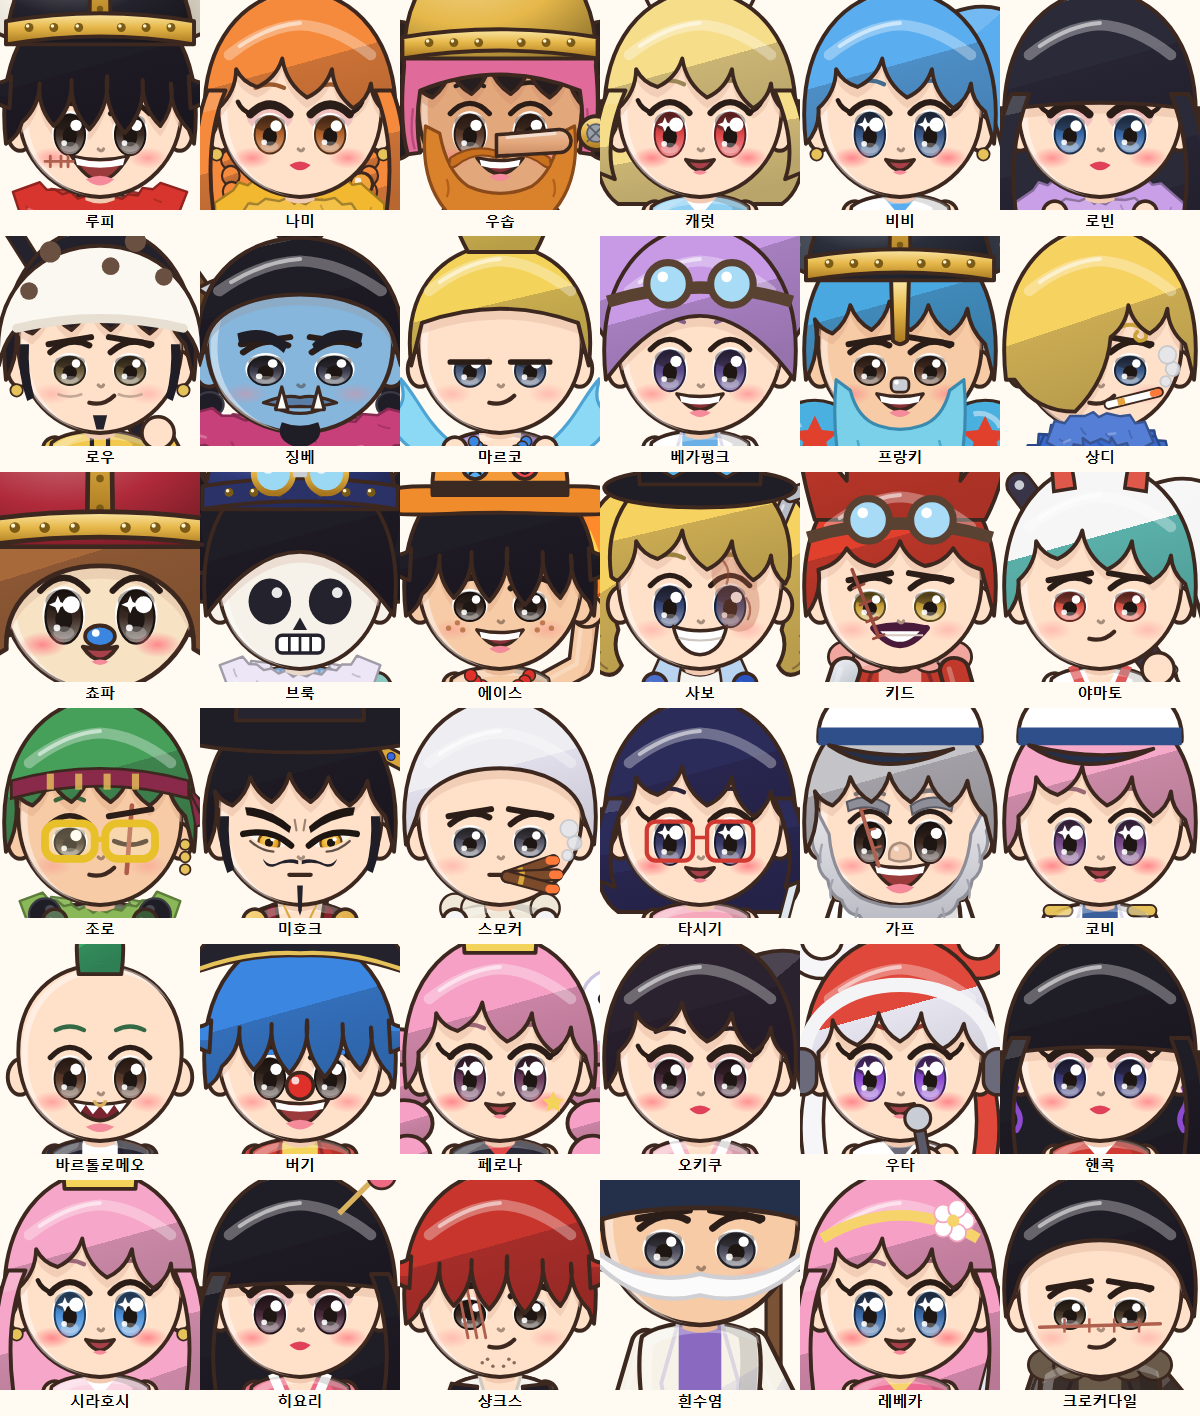
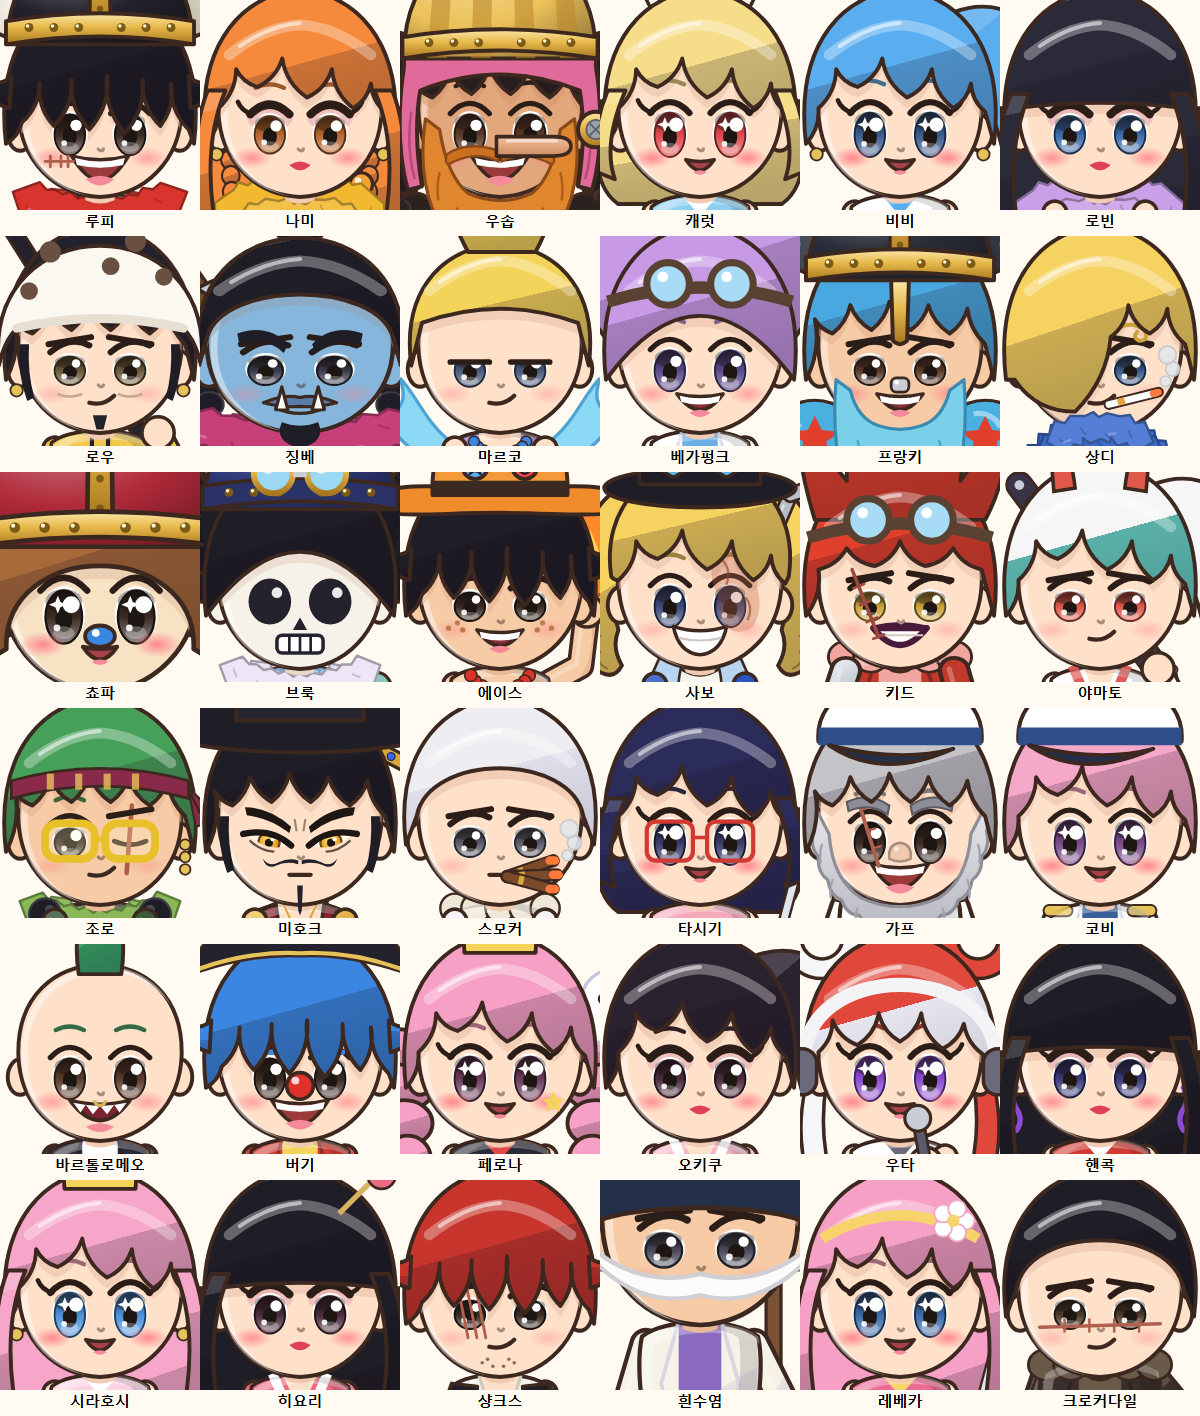
원피스직원 v3: 우솝 설정화에 맞춰 전체 — 턱선까지 분홍 두건 · 옆 헤드폰 · 넓은 금 줄무늬 투구 · 투구 옆에서 가늘고 길게 솟은 금 뿔 · 두건 뒤로 부푼 아프로 · 가슴까지 긴 주황 수염 · 크게 웃는 입 · B 코 · 회색 가방끈 · 징 박힌 손목 밴드 · 오피스 그림 다시 생성

Changed region(s): [[0.3083, 0.0621, 0.5242, 0.1554], [0.3392, 0.0, 0.4317, 0.0311]]

diff --git a/jugansa/ai-office/ai-jugansa/design/skins/원피스직원_v3/svg_chars.py b/jugansa/ai-office/ai-jugansa/design/skins/원피스직원_v3/svg_chars.py
@@ -645,6 +645,9 @@ def body(lk, team, pose=None):
             out_ += band(1, 0.82, "#8a5a30", 4); x, y, dx, dy = at(1, 0.82)
             out_ += f'<circle cx="{x - dy * 9:.1f}" cy="{y + dx * 9:.1f}" r="4.2" fill="#cfeefb" stroke="{INK}" stroke-width="1.2"/><path d="M {x - dy * 9 - 2:.1f},{y + dx * 9:.1f} L {x - dy * 9 + 2:.1f},{y + dx * 9:.1f}" stroke="#e0484a" stroke-width="1.2"/>'
         if "wrist_cuffs" in ex: out_ += band(len(pts) - 2, 0.84, "#8a93a3", 5)
+        if lk.get("stud_cuffs"):
+            out_ += band(len(pts) - 2, 0.8, "#1f1d26", 6); x, y, dx, dy = at(len(pts) - 2, 0.8)
+            out_ += "".join(f'<circle cx="{x - dy * d:.1f}" cy="{y + dx * d:.1f}" r="1.3" fill="#c9ced6"/>' for d in (-5, 0, 5))
         if "armband" in ex and side == "R":
             out_ += band(0, 0.62, "#1f1d26", 7); x, y, _, _ = at(0, 0.62)
             out_ += f'<rect x="{x - 3.5:.1f}" y="{y - 4:.1f}" width="7" height="8" rx="1" fill="none" stroke="#e6b84a" stroke-width="1.8"/>'
@@ -854,6 +857,7 @@ def elbaf_torso(lk):
     if lk.get("kilt"): s += _kilt(lk["kilt"])
     if lk.get("strap"): s += _strap(lk["strap"], 9 if lk.get("strap_wide") else 6)
     if lk.get("belt"): s += _belt(lk["belt"])
+    if lk.get("bag_strap"): s += '<path d="M -26,48 L 30,112" stroke="#3d2820" stroke-width="7" stroke-linecap="round"/><path d="M -26,48 L 30,112" stroke="#9aa0aa" stroke-width="4.4" stroke-linecap="round"/>'
     if lk.get("pouch"): s += f'<path d="M 20,104 L 36,116" stroke="#8a8f9a" stroke-width="2.4"/><ellipse cx="38" cy="126" rx="11" ry="12" fill="{lk["pouch"]}" {S}/><path d="M 30,120 Q 38,116 46,120" stroke="#8a2a1a" stroke-width="1.6" fill="none"/>'
     if lk.get("collar"):
         c = lk["collar"]; s += _collar(c, spread=lk.get("collar_w", 38), r=lk.get("collar_r", 7.5))
@@ -933,11 +937,11 @@ def long_nose(sk):
 
 def elbaf_face(lk):
     s, b = "", lk.get("beard")
-    if b == "usopp":
-        s += ('<path d="M -42,4 Q -46,40 -24,58 Q -12,68 0,70 Q 12,68 24,58 Q 46,40 42,4 L 34,8 Q 30,30 18,38 Q 0,46 -18,38 Q -30,30 -34,8 Z" fill="#d9822b" stroke="#8a4a1a" stroke-width="1.8" stroke-linejoin="round"/>'
-              '<path d="M -2,22 Q -14,18 -24,26 Q -30,30 -28,22 Q -16,14 -2,18 Z M 2,22 Q 14,18 24,26 Q 30,30 28,22 Q 16,14 2,18 Z" fill="#c9701f" stroke="#8a4a1a" stroke-width="1.2"/>'
-              + "".join(f'<path d="M {x},{y} q 2,6 0,10" stroke="#b0601a" stroke-width="1.3" fill="none"/>' for x, y in ((-30, 34), (-16, 52), (0, 56), (16, 52), (30, 34))))
-    if "long_nose" in lk["ex"]: s += long_nose_v(lk["skin"], lk.get("nose_style", "A"))        # 수염보다 앞에
+    if b == "usopp":       # 설정화 기준: 귀밑에서 가슴까지 내려오는 풍성한 주황 수염 · 두툼한 콧수염 · 입은 크게 보임
+        s += ('<path d="M -42,0 Q -48,40 -30,66 Q -16,84 0,92 Q 16,84 30,66 Q 48,40 42,0 L 34,6 Q 30,32 18,42 Q 0,50 -18,42 Q -30,32 -34,6 Z" fill="#e0862e" stroke="#8a4a1a" stroke-width="1.8" stroke-linejoin="round"/>'
+              '<path d="M -1,24 Q -12,18 -26,24 Q -32,28 -30,20 Q -18,12 -1,18 Z M 1,24 Q 12,18 26,24 Q 32,28 30,20 Q 18,12 1,18 Z" fill="#cc7020" stroke="#8a4a1a" stroke-width="1.3"/>'
+              + "".join(f'<path d="M {x},{y} q {d},8 {d * 0.4},16" stroke="#b0601a" stroke-width="1.4" fill="none"/>' for x, y, d in ((-34, 30, -2), (-24, 50, -2), (-10, 62, -1), (10, 62, 1), (24, 50, 2), (34, 30, 2), (0, 68, 0))))
+    if "long_nose" in lk["ex"]: s += long_nose_v(lk["skin"], lk.get("nose_style", "B"))        # 수염보다 앞에
     if b == "franky":
         s += ('<path d="M -36,14 Q -40,60 -24,92 Q -14,104 -6,96 Q 0,108 6,96 Q 14,104 24,92 Q 40,60 36,14 L 28,20 Q 24,36 12,40 Q 0,44 -12,40 Q -24,36 -28,20 Z" fill="#7ad0e8" stroke="#3a8ab0" stroke-width="1.8" stroke-linejoin="round"/>'
               + "".join(f'<path d="M {x},{y} q 3,10 -1,22" stroke="#4aa8c8" stroke-width="1.4" fill="none"/>' for x, y in ((-24, 48), (-10, 56), (8, 56), (22, 48))))
@@ -952,13 +956,13 @@ def elbaf_top(lk):        # 이마 띠 (조로)
             + "".join(f'<rect x="{x}" y="-30" width="4" height="9" fill="#e6c25a" opacity=".8"/>' for x in (-30, -14, 2, 18)) + f'<path d="M 50,-22 L 62,-10 L 56,-8 Z M 50,-20 L 60,-2 L 54,0 Z" fill="{c}" stroke="{INK}" stroke-width="1.2"/>')
 
 def elbaf_hair_back(lk):
-    if lk.get("side_afro"):       # 우솝: 투구 아래 양옆으로 풍성하게 삐져나온 곱슬머리 (위로는 안 보임)
+    if lk.get("side_afro"):       # 설정화 기준: 두건 뒤로 크게 부푼 검은 아프로 (옆 · 뒤 · 어깨 높이까지)
         H = f'fill="url(#hair§)" stroke="#3d2820" stroke-width="2" stroke-linejoin="round"'
         g = ""
         for sx in (-1, 1):
-            for x, y, r in ((58, -40, 15), (70, -26, 17), (78, -6, 17), (74, 12, 15), (62, -8, 17), (60, 10, 13)):
+            for x, y, r in ((60, -34, 15), (72, -16, 17), (78, 6, 18), (74, 28, 17), (62, 44, 15), (48, 54, 12), (62, 0, 20), (56, 24, 18)):
                 g += f'<circle cx="{sx * x}" cy="{y}" r="{r}" {H}/>'
-            g += "".join(f'<path d="M {sx * x},{y} a 5,5 0 1 1 {sx * 6},3" stroke="#4a3a34" stroke-width="1.4" fill="none" opacity=".8"/>' for x, y in ((70, -24), (78, -2), (72, 14)))
+            g += "".join(f'<path d="M {sx * x},{y} a 5,5 0 1 1 {sx * 6},3" stroke="#4a3a34" stroke-width="1.4" fill="none" opacity=".75"/>' for x, y in ((68, -20), (72, 6), (66, 30), (54, 46)))
         return g
     if lk.get("nami_braids"):      # 양옆으로 늘어뜨린 가는 땋은 머리
         return "".join(f'<ellipse cx="{sx * (40 - k * 0.5):.1f}" cy="{14 + k * 9}" rx="5" ry="5.5" fill="url(#hair§)" stroke="#3d2820" stroke-width="1.2"/>' for sx in (-1, 1) for k in range(6))
@@ -987,16 +991,18 @@ def elbaf_hat(lk):
         horns = "".join(f'<path d="M {sx * 46},-78 C {sx * 78},-82 {sx * 98},-96 {sx * 100},-136 C {sx * 92},-92 {sx * 78},-54 {sx * 52},-46 Z" fill="url(#hh§)" {S}/>'
                         f'<path d="M {sx * 100},-136 Q {sx * 101},-116 {sx * 97},-106 Q {sx * 90},-114 {sx * 91},-122 Z" fill="#1f1d26"/>' + ridge(sx, ((58, -62), (72, -68), (82, -80), (88, -94))) for sx in (-1, 1))
         return G + horns + dome("#24222c") + strip() + band()
-    if h == "viking_usopp":       # 얼굴을 감싼 분홍 두건(이마 · 양옆) + 옆 헤드폰 · 그 위에 금 투구(줄무늬는 투구 안에만) · 금 뿔 위로
+    if h == "viking_usopp":       # 설정화 기준: 턱선까지 내려온 분홍 두건 + 옆 헤드폰 · 넓은 금 줄무늬 투구 · 가늘고 길게 솟은 금 뿔
         yb = -34
-        hood = (f'<path d="M -54,-30 C -58,-72 58,-72 54,-30 Q 57,2 52,20 L 45,19 Q 48,2 45,-16 Q 0,-34 -45,-16 Q -48,2 -45,19 L -52,20 Q -57,2 -54,-30 Z" fill="#e06a9a" {S}/>'      # 귀 바로 아래까지만 (본부장 10-31)
-                '<path d="M -49,-6 Q -51,8 -48,17 M 49,-6 Q 51,8 48,17" stroke="#b84a78" stroke-width="1.4" fill="none"/>'
-                f'<circle cx="54" cy="8" r="9.5" fill="{gold}" {S}/><circle cx="54" cy="8" r="5" fill="#9aa0aa" stroke="#5a5f6a" stroke-width="1"/><path d="M 49,3 L 59,13 M 59,3 L 49,13" stroke="#5a5f6a" stroke-width="1"/>')
-        horns = "".join(f'<path d="M {sx * 40},-80 Q {sx * 72},-100 {sx * 54},-146 Q {sx * 50},-112 {sx * 30},-92 Z" fill="{gold}" {S}/>' + ridge(sx, ((44, -94), (52, -110), (54, -126)), "#a8761e") for sx in (-1, 1))
+        hood = (f'<path d="M -54,-30 C -58,-72 58,-72 54,-30 Q 60,10 52,40 L 44,38 Q 49,8 45,-16 Q 0,-34 -45,-16 Q -49,8 -44,38 L -52,40 Q -60,10 -54,-30 Z" fill="#e06a9a" {S}/>'
+                '<path d="M -50,-4 Q -53,16 -48,34 M 50,-4 Q 53,16 48,34" stroke="#b84a78" stroke-width="1.4" fill="none"/>'
+                f'<circle cx="54" cy="6" r="10" fill="{gold}" {S}/><circle cx="54" cy="6" r="5.4" fill="#9aa0aa" stroke="#5a5f6a" stroke-width="1"/>'
+                '<path d="M 50.5,2.5 L 57.5,9.5 M 57.5,2.5 L 50.5,9.5" stroke="#5a5f6a" stroke-width="1"/>')
+        horns = "".join(f'<path d="M {sx * 46},-80 C {sx * 62},-96 {sx * 64},-124 {sx * 52},-150 C {sx * 48},-124 {sx * 42},-106 {sx * 30},-98 Z" fill="{gold}" {S}/>'
+                        + ridge(sx, ((44, -100), (50, -116), (52, -134)), "#a8761e") for sx in (-1, 1))
         dpath = f"M -54,{yb} C -56,-120 56,-120 54,{yb} Z"
-        stripes = (f'<defs><clipPath id="uc§"><path d="{dpath}"/></clipPath></defs><g clip-path="url(#uc§)">'
-                   + "".join(f'<path d="M {x},-122 Q {x * 1.12},-80 {x * 1.2},{yb}" stroke="#b8862a" stroke-width="3.6" fill="none"/>' for x in (-30, -11, 11, 30)) + '</g>')
-        return G + hood + horns + dome("#e6b84a", top=-120, w=54, yb=yb) + band(yb=yb, w=55, hgt=12)      # 투구는 맨들하게 (줄무늬 없음 · 본부장 10-31)
+        panels = (f'<defs><clipPath id="uc§"><path d="{dpath}"/></clipPath></defs><g clip-path="url(#uc§)" opacity=".55">'
+                  + "".join(f'<path d="M {x0},-126 L {x0 + 9},-126 L {(x0 + 9) * 1.25},{yb} L {x0 * 1.25},{yb} Z" fill="#b8862a"/>' for x0 in (-33, -13, 7, 27)) + '</g>')
+        return G + hood + horns + dome("#ecc25a", top=-120, w=54, yb=yb) + panels + band(yb=yb, w=55, hgt=12)
     if h == "viking_franky":      # 검정 큰 뿔 · 짙은 투구 · 금 테두리 + 코 보호대
         horns = "".join(f'<path d="M {sx * 46},-78 C {sx * 88},-82 {sx * 110},-104 {sx * 110},-150 C {sx * 100},-100 {sx * 84},-56 {sx * 52},-46 Z" fill="url(#hk§)" {S}/>'
                         f'<path d="M {sx * 56},-62 Q {sx * 96},-66 {sx * 98},-128" stroke="#8a8f9a" stroke-width="2.2" fill="none" opacity=".6"/>' for sx in (-1, 1))
@@ -1026,7 +1032,7 @@ ELBAF = {   # 이름 → 엘바프 편 차림 (공식 설정화 기준)
                 boots="#1f1d26", boot_top=190, goggles_y=True, headband="#8a2a4a"),
     "로빈": dict(out="crop", top="tank", shawl="#c9a0e8", belt=("#8a5a3a", "#c9a45c"), kilt=("#4a2a6a", 176, "long_side"), bare_legs=True, boots="#2a3a7a", boot_top=150, ex_del=["sunglasses_head", "hana_arms"]),
     "쵸파": dict(hat="chopper_elbaf", cape="#efeaf6", cape_len=176, collar="#efeaf6", collar_r=8, stripes=("#e86aa0", "#5a8ae0"), baggy=True, hoof_legs=True, belt=("#8a5a3a", "#e6c25a")),
-    "우솝": dict(hat="viking_usopp", hs="short", side_afro=True, out="shirtless", pose="hip", suspenders="#5a3aa0", belt=("#1f1d26", "#e6c25a"), stripes=("#e05a7a", "#5a3aa0"), baggy=True,
+    "우솝": dict(hat="viking_usopp", hs="short", side_afro=True, mouth="laugh", nose_style="B", stud_cuffs=True, bag_strap=True, out="shirtless", pose="hip", suspenders="#5a3aa0", belt=("#1f1d26", "#e6c25a"), stripes=("#e05a7a", "#5a3aa0"), baggy=True,
                 boots="#8a5a3a", cuff="#c9a878", boot_top=172, pouch="#d0402c", beard="usopp", props=[], ex_del=["goggles_head"]),
     "징베": dict(out="crop", top="tunic_orange", pose="side", cape="#c8407a", cape_w=70, collar="#c8407a", collar_w=40, collar_r=9, strap="#8a5a30", strap_wide=True, belt=("#e8b830", "#3a3f4a", "dragon"),
                 kilt=("#8a6a3a", 178, "fur"), braids=True, legs="#86b6dc", boots="#7a4a2a", boot_top=192, back="axe_jinbe", ex_del=["haori", "sun_tattoo", "curly_rim"]),
